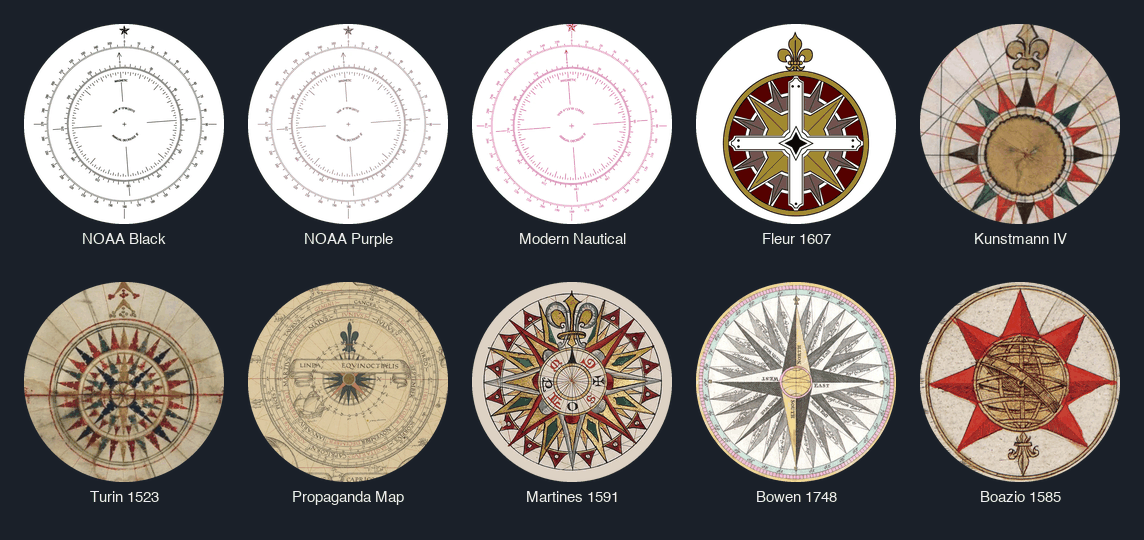
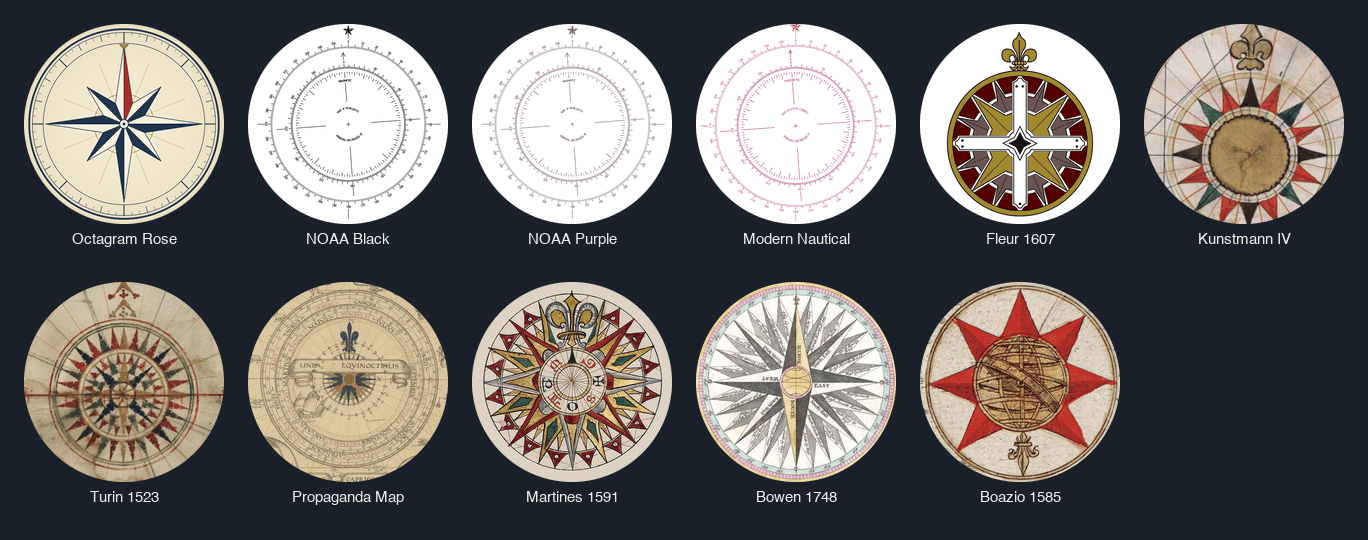
Add an original 8-point compass rose skin (octagram-rose, CC0)
Hand-drawn SVG kept in skins/art/ (committed, unlike third-party originals in
skins/raw/); tools/make_skins.py now looks in art/ then raw/. The rose has a
red north point, four intercardinal points, secondary-wind rays and a degree
tick ring, with no text so rebuilds don't depend on installed fonts. Widens
the gallery to six columns and updates the docs.

diff --git a/tools/make_skins.py b/tools/make_skins.py
@@ -8,8 +8,8 @@
 
 Each skin becomes a square, metadata-free WebP (default 800x800, quality 82)
 whose rose is centred and fills the frame; the app clips it to a circle.
-Raw originals stay out of git (skins/raw/); sources.json records where each
-came from, and skins.json is the generated index the app reads.
+Third-party originals stay out of git (skins/raw/); our own art lives in
+skins/art/. sources.json records where each came from, and skins.json is the generated index the app reads.
 """
 from __future__ import annotations
 
@@ -21,7 +21,8 @@ from pathlib import Path
 
 ROOT = Path(__file__).resolve().parent.parent
 SKINS = ROOT / "skins"
-RAW = SKINS / "raw"
+RAW = SKINS / "raw"          # third-party originals: git-ignored
+ART = SKINS / "art"          # our own source art: committed
 FIELDS = ("id", "name", "file", "credit", "license", "source")
 
 
@@ -81,9 +82,9 @@ def build(data: dict, only: set[str] | None) -> list[dict]:
     for s in data["skins"]:
         if only and s["id"] not in only:
             continue
-        src = RAW / s["file"]
-        if not src.is_file():
-            print(f"  skip {s['id']}: {src} not found", file=sys.stderr)
+        src = next((d / s["file"] for d in (ART, RAW) if (d / s["file"]).is_file()), None)
+        if src is None:
+            print(f"  skip {s['id']}: {s['file']} not in {ART.name}/ or {RAW.name}/", file=sys.stderr)
             continue
         im = square(open_source(src, size * 2), s).resize((size, size), Image.LANCZOS)
         out = SKINS / f"{s['id']}.webp"
@@ -93,7 +94,7 @@ def build(data: dict, only: set[str] | None) -> list[dict]:
     return index
 
 
-def gallery(index: list[dict], out: Path, thumb: int = 200, cols: int = 5) -> None:
+def gallery(index: list[dict], out: Path, thumb: int = 200, cols: int = 6) -> None:
     """Contact sheet of round thumbnails, used by docs/skins.md."""
     from PIL import Image, ImageDraw, ImageFont
     pad, label = 24, 34

diff --git a/docs/skins.md b/docs/skins.md
@@ -12,11 +12,11 @@ degree scale) and is shared by every browser tab.
 
 ## What ships
 
-Ten skins in `skins/`, each one a single `<id>.webp`:
+Eleven skins in `skins/`, each one a single `<id>.webp`:
 
 | Kind | Skins |
 | --- | --- |
-| Vector charts (rendered from SVG) | `noaa-black`, `noaa-purple`, `modern-nautical`, `fleur-1607` |
+| Vector (rendered from SVG) | `octagram-rose` (original 8-point rose, CC0), `noaa-black`, `noaa-purple`, `modern-nautical`, `fleur-1607` |
 | Historic charts and engravings | `kunstmann`, `turin-1523`, `propaganda-map`, `martines-1591`, `bowen-1748`, `boazio-1585` |
 
 `skins/skins.json` is the generated index the app reads (id, display name,
@@ -33,8 +33,9 @@ that produces it.
 | Metadata | None. EXIF, ICC and XMP chunks are not written (no camera, GPS or editor data in the repo). |
 | Colour | Flattened to opaque RGB. Vector art is composited on white. |
 
-The 10 skins total about 0.9 MB. Originals (up to ~2 MB each) are kept out of
-git in `skins/raw/`.
+The 11 skins total about 0.95 MB. Third-party originals (up to ~2 MB each) are kept
+out of git in `skins/raw/`; our own source art (`octagram-rose.svg`) is committed
+in `skins/art/`.
 
 ## Rebuilding or adding a skin
 
@@ -43,7 +44,9 @@ python3 -m venv .venv-tools && . .venv-tools/bin/activate
 pip install -r tools/requirements.txt      # Pillow + resvg-py, build-time only
 ```
 
-1. Put the original in `skins/raw/`. SVG, JPEG, PNG and WebP all work.
+1. Put the original in `skins/raw/` (or, for art you made yourself, `skins/art/`,
+   which is committed). SVG, JPEG, PNG and WebP all work. The build looks in
+   `art/` first, then `raw/`.
    Check it is really an image: a "Save as" from a Wikimedia *File:* page saves
    the HTML page, not the picture. Use the "Original file" link.
 2. Add an entry to `skins/sources.json`:
@@ -74,8 +77,8 @@ pip install -r tools/requirements.txt      # Pillow + resvg-py, build-time only
 4. `python3 test_skins.py` checks that the index and files agree, every skin is
    800 × 800, under budget and metadata-free, and that every skin is credited.
 
-Commit `skins/*.webp`, `skins/skins.json` and `skins/sources.json`. `skins/raw/`
-is git-ignored.
+Commit `skins/*.webp`, `skins/skins.json`, `skins/sources.json` and any `skins/art/`
+file. `skins/raw/` is git-ignored.
 
 The screenshots in `docs/` (`screenshot.png`, `screenshot-skin.png`) are taken
 by hand against the demo simulator (`python3 rt21_web.py --demo`) at 1280 × 775;
@@ -93,7 +96,7 @@ retake them when the UI changes.
 
 ## Licensing and provenance
 
-All ten shipped skins are public domain or CC0; the credit and source for each
+All eleven shipped skins are public domain or CC0; the credit and source for each
 is in `skins.json` and appears in the picker. Four photographs (three from
 Flickr, one from Pixabay) were removed because their licenses could not be
 confirmed. Only add a skin whose license you can state.

diff --git a/README.md b/README.md
@@ -98,7 +98,7 @@ the page can turn the rotator — so only open it up on a network you trust.
   rendered readably.
 - **Dial skins** — the **Skins** button swaps the drawn rose for one of 10
   public-domain compass-rose artworks (charts and engravings). The scale and needles are
-  still drawn on top; a checkbox hides the scale. Ten public-domain skins ship
+  still drawn on top; a checkbox hides the scale. Eleven public-domain or CC0 skins ship
   with the app. See [docs/skins.md](docs/skins.md).
 - Dark and light themes (◐), responsive layout for phone screens.
 - Shortcuts: **Esc** stop, **Enter** slew.
